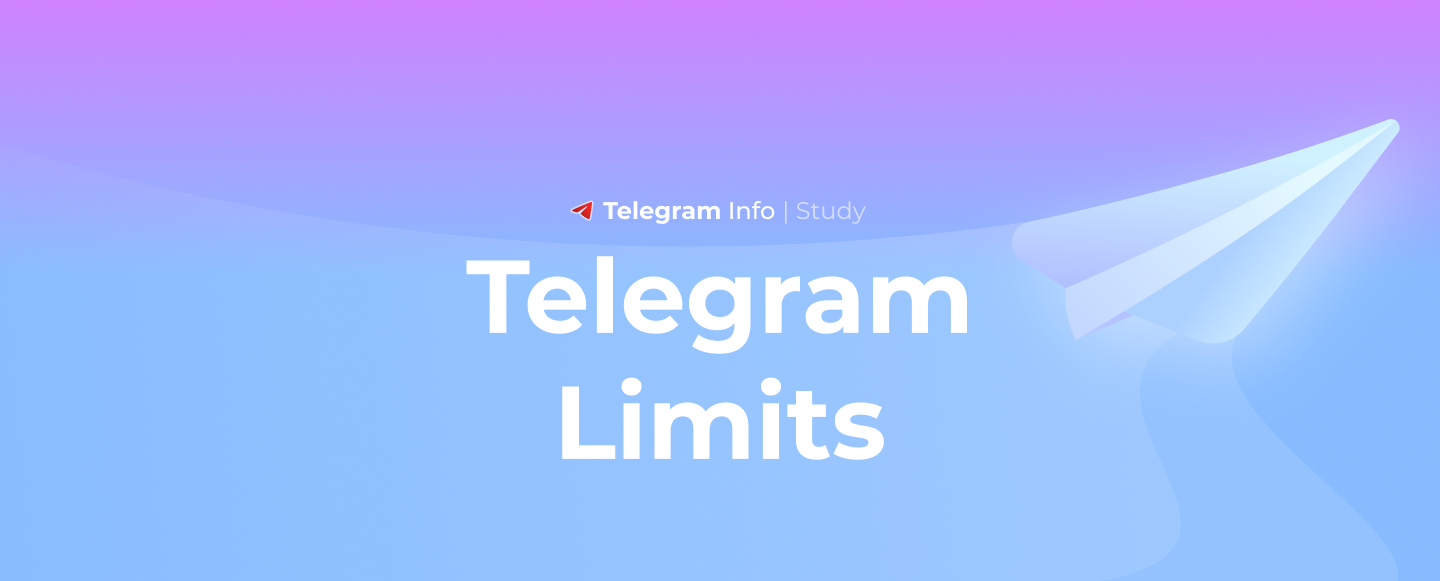
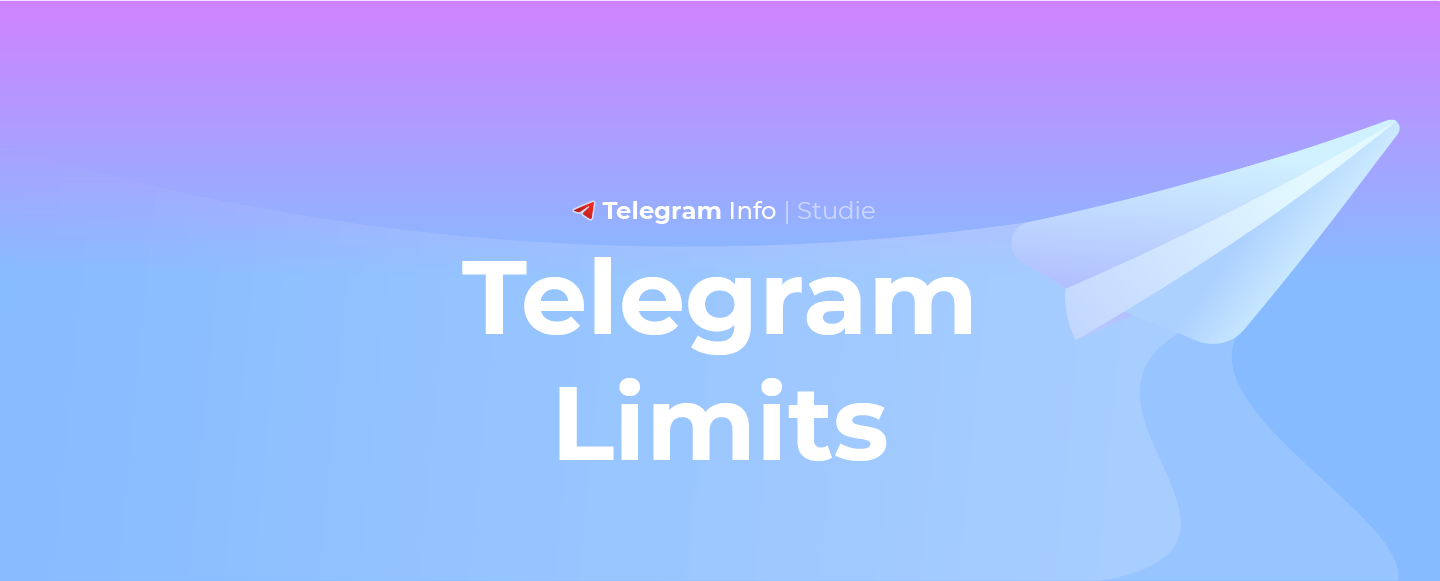
Added German (#31)

diff --git a/README.md b/README.md
@@ -24,3 +24,4 @@ This project describes Telegram limitations and displays them on [limits.tginfo.
 - Spanish: dangeredwolf
 - Persian: mbakhshiane
 - Portuguese (Brazilian): tantofazisso
+- German: bederke
